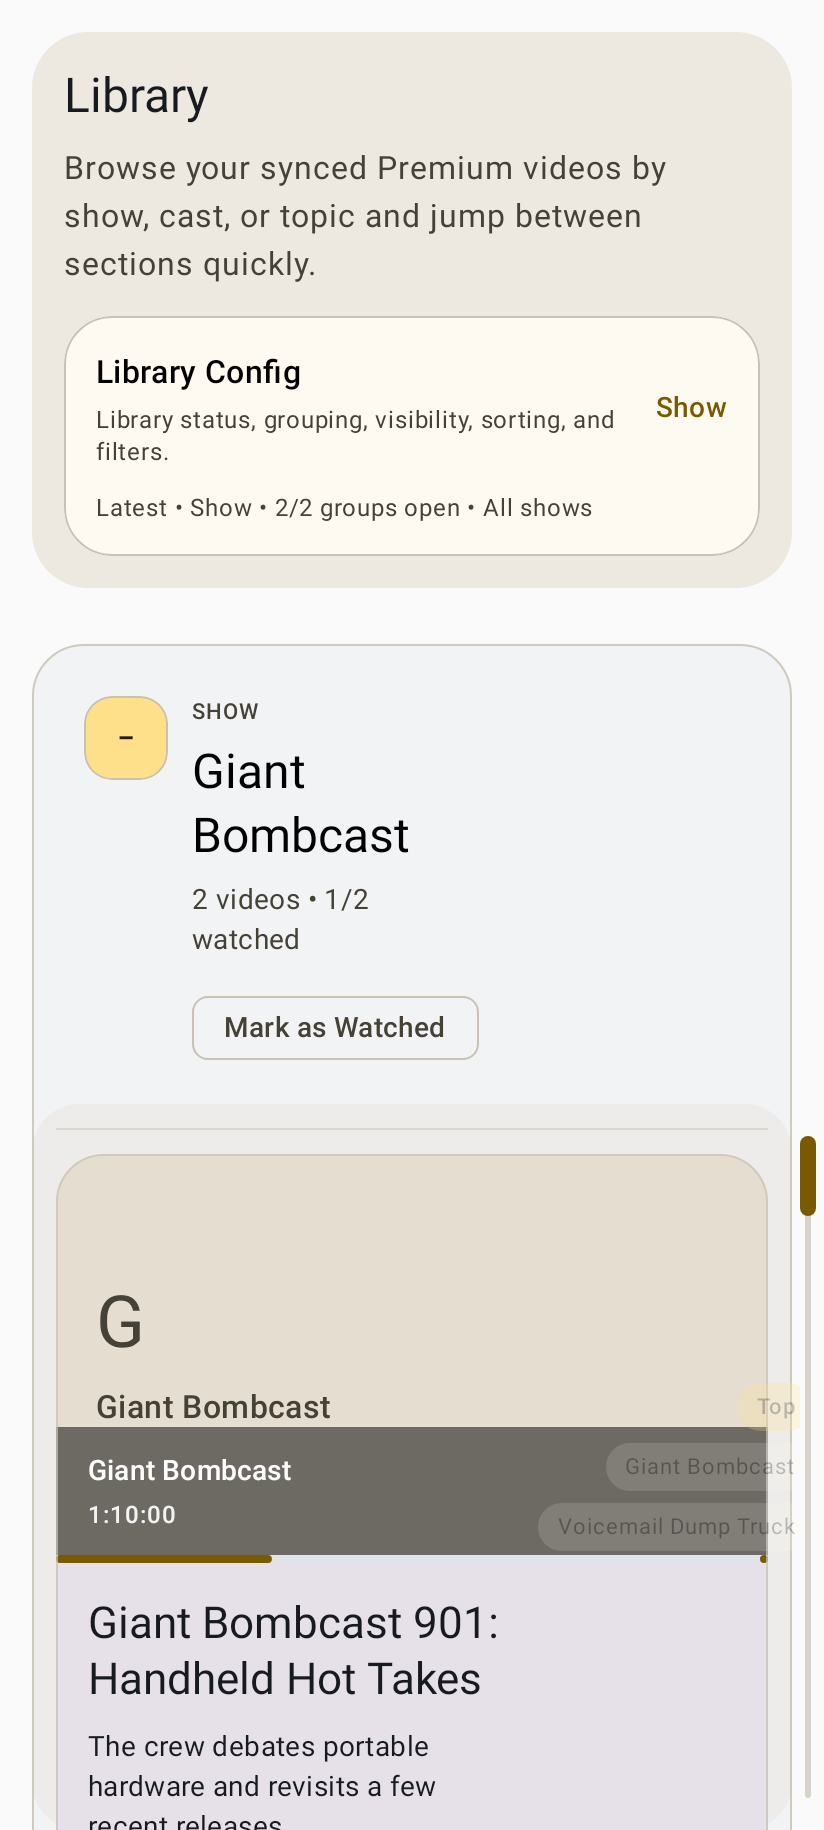
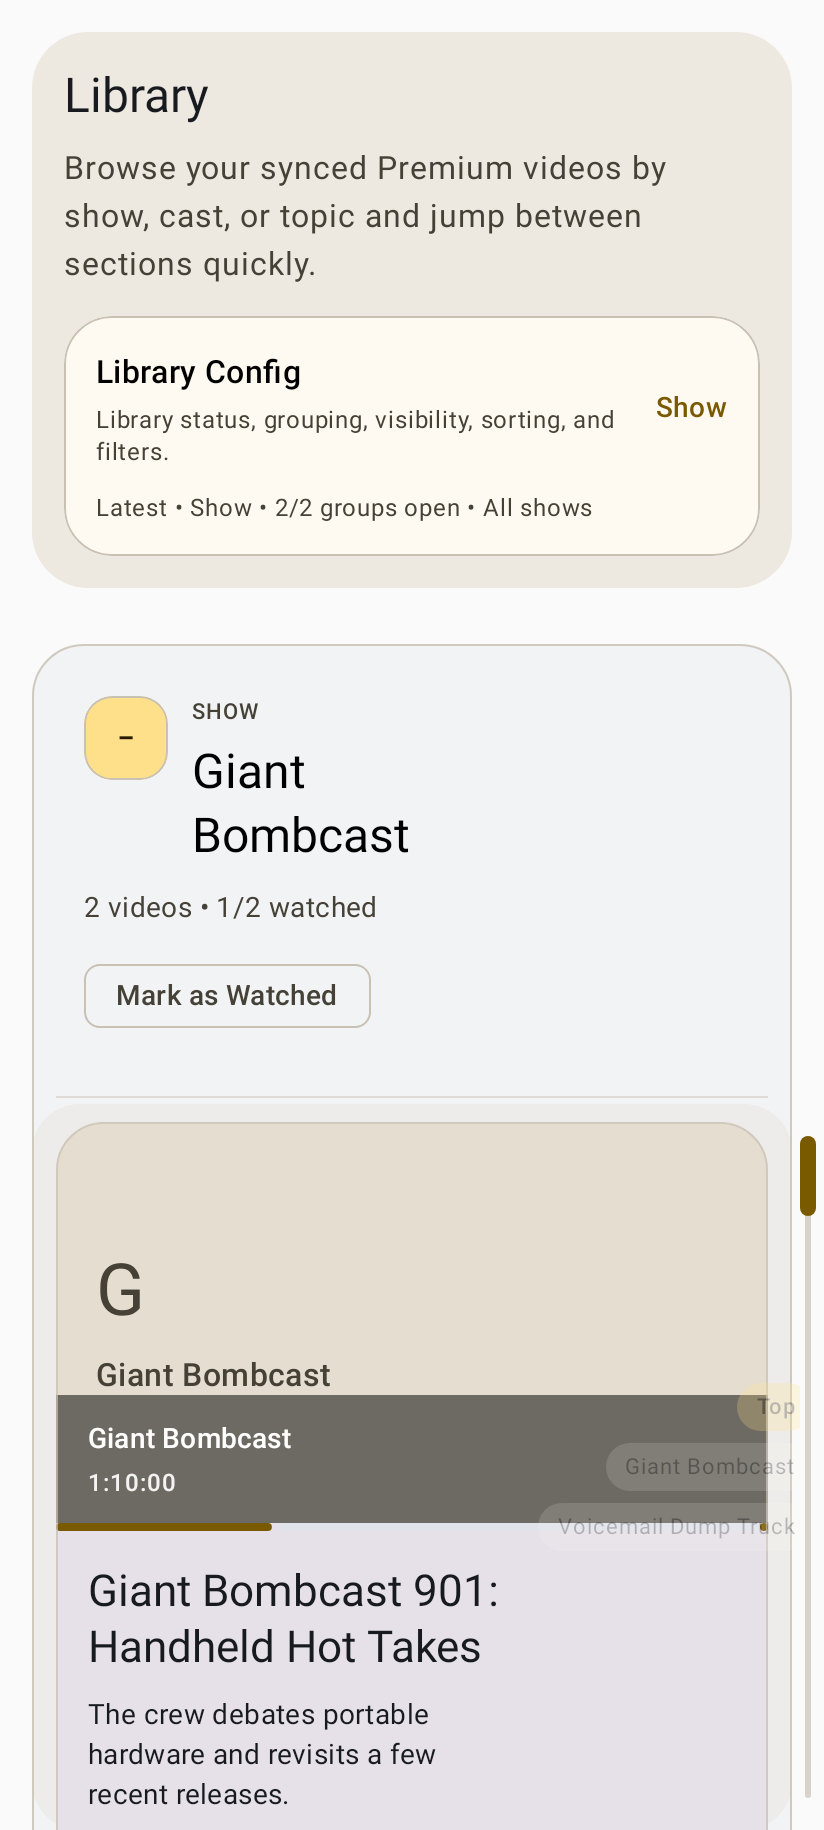
Reclaim grouped header width beneath affordance

Changed region(s): [[0.0607, 0.6852, 0.9405, 1.0], [0.0607, 0.4672, 0.9405, 0.6541]]

diff --git a/feature/library/src/main/java/com/looktube/feature/library/LibraryRoute.kt b/feature/library/src/main/java/com/looktube/feature/library/LibraryRoute.kt
@@ -985,7 +985,6 @@ private val TRACK_ONLY_CONTENT_CLEARANCE = 20.dp
 private val JUMP_RAIL_TRACK_WIDTH = 8.dp
 private val GROUPED_HEADER_MAX_END_PADDING = 148.dp
 private val GROUPED_VIDEO_MAX_END_PADDING = 112.dp
-private val GROUP_HEADER_TOGGLE_INDENT = 54.dp
 
 internal enum class JumpRailInteraction {
     Scroll,
@@ -1251,25 +1250,32 @@ private fun SeriesSectionHeader(
                     text = section.title,
                     style = MaterialTheme.typography.headlineSmall,
                 )
-                Text(
-                    text = supportingText,
-                    style = MaterialTheme.typography.bodyMedium,
-                    color = MaterialTheme.colorScheme.onSurfaceVariant,
-                )
             }
         }
-        FilterChip(
-            modifier = Modifier.padding(start = GROUP_HEADER_TOGGLE_INDENT),
-            selected = sectionIsFullyWatched,
-            onClick = {
-                if (sectionIsFullyWatched) {
-                    onMarkSectionUnwatched()
-                } else {
-                    onMarkSectionWatched()
-                }
-            },
-            label = { Text(watchToggleActionLabel(sectionIsFullyWatched)) },
+        Text(
+            text = supportingText,
+            modifier = Modifier.padding(end = textEndPadding),
+            style = MaterialTheme.typography.bodyMedium,
+            color = MaterialTheme.colorScheme.onSurfaceVariant,
         )
+        Row(
+            modifier = Modifier
+                .fillMaxWidth()
+                .padding(end = textEndPadding),
+        )
+        {
+            FilterChip(
+                selected = sectionIsFullyWatched,
+                onClick = {
+                    if (sectionIsFullyWatched) {
+                        onMarkSectionUnwatched()
+                    } else {
+                        onMarkSectionWatched()
+                    }
+                },
+                label = { Text(watchToggleActionLabel(sectionIsFullyWatched)) },
+            )
+        }
     }
 }
 

diff --git a/docs/spec/reproducible-project-spec.md b/docs/spec/reproducible-project-spec.md
@@ -76,7 +76,7 @@ An implementation that materially changes these choices can still be valid, but 
 - supports show filtering with the filter tray collapsed by default
 - supports collapsing and expanding individual grouped sections, plus overview-level expand-all and collapse-all actions when grouping is active
 - applies the chosen sort mode consistently to flat lists, grouped section ordering, and episode ordering within each visible group
-- renders grouped section headers as containing cards with progress-aware video cards beneath them, keeps the expand/collapse control in the top left beside the group title, places the single group watched-state toggle beneath the group info immediately above the child video list, and provides a right-side jump rail that anchors to the episode-list panel for quick section navigation based on the currently visible section anchors without overlapping card text or interactive controls
+- renders grouped section headers as containing cards with progress-aware video cards beneath them, keeps the expand/collapse control in the top left beside the group title, lets the title block plus the group info and single group watched-state toggle reclaim the full header width beneath that affordance, places the toggle immediately above the child video list, and provides a right-side jump rail that anchors to the episode-list panel for quick section navigation based on the currently visible section anchors without overlapping card text or interactive controls
 - shows watched-versus-total completion on grouped show headers when browsing by show
 - uses explicit `Mark as Watched` and `Mark as Unwatched` labels for manual watched-state actions
 - exposes key per-video metadata on cards and an explicit full-info affordance for inspecting each video's stored details
@@ -110,7 +110,7 @@ An implementation that materially changes these choices can still be valid, but 
 - Library sorting semantics stay consistent across grouped and ungrouped browsing: latest and oldest are chronological, while show ordering is alphabetical by group/show with newest episodes first within a show.
 - The library overview panel remains visually separate from the scrolling episode list, can scroll off screen before the episode list takes over the viewport, and the jump rail does not overlap that overview panel.
 - Grouped section collapse state is local UI state that survives scrolling and jump-rail use during the current session without needing cross-launch persistence.
-- Grouped sections read as containing cards, with compact header controls that use icon-only expand/collapse affordances, a single current-state watched toggle instead of parallel watched and unwatched buttons, and expanded episode cards that remain visually nested under the header they belong to.
+- Grouped sections read as containing cards, with compact header controls that use icon-only expand/collapse affordances, a single current-state watched toggle instead of parallel watched and unwatched buttons, header metadata and the toggle reclaiming the width beneath the affordance instead of reserving a dead left gutter, and expanded episode cards that remain visually nested under the header they belong to.
 - The jump rail becomes visible quickly when scrolling starts, fades back out roughly 0.2 seconds after passive scrolling stops, and only lingers longer after an explicit jump-rail selection.
 
 ### Background refresh and notifications

diff --git a/docs/spec/product-spec.md b/docs/spec/product-spec.md
@@ -56,7 +56,7 @@ Harden the path from copied feed sync to daily repeat use.
 - library cards expose key per-video metadata, watched-state actions, and an explicit full-info affordance so stored video details remain inspectable even when descriptions are short
 - watched-state actions use explicit `Mark as Watched` and `Mark as Unwatched` phrasing throughout the app
 - Look Points remain based only on watched videos, with the global header badge using the app's gold/yellow accent outline treatment while show completion remains a visual progress signal rather than a score bonus
-- grouped section headers avoid redundant tap-instruction copy, keep the expand/collapse affordance in the top left beside the group title, move the single group watched-state toggle below the group info directly above the child video list, surface watched-versus-total completion status, and give title plus group info most of the layout space so fully watched shows are easy to spot and update without duplicated opposing buttons
+- grouped section headers avoid redundant tap-instruction copy, keep the expand/collapse affordance in the top left beside the group title, let the title block plus the group info and single watched-state toggle reclaim the full header width beneath that affordance instead of leaving a dead left gutter, surface watched-versus-total completion status, and keep the toggle directly above the child video list so fully watched shows are easy to spot and update without duplicated opposing buttons
 - expanded grouped sections render as containing cards so the header and its videos read as one collapsible element
 - any manual watched-state control in the app exposes only the next valid toggle action for its current state rather than parallel watched and unwatched buttons for the same item or group
 - selecting a video with saved playback progress resumes from that stored point reliably, including after app reloads where the bookmark state and player controller restore asynchronously

diff --git a/docs/spec/agent-spec-package/references/architecture.md b/docs/spec/agent-spec-package/references/architecture.md
@@ -28,7 +28,7 @@ Its central promise is deliberately narrow:
 ### Library
 - combines status, grouping, sorting, filtering, jump navigation, and top-level progress context in one browse surface
 - wraps status plus browse controls inside a default-collapsed Library Config element that sits above the scrolling episode list
-- grouped headers can collapse or expand independently with compact icon-based expand/collapse controls, expose one whole-group watched-state toggle at a time, keep overview controls for expanding or collapsing all groups, render as containing cards, and visually nest their episode cards beneath the owning header
+- grouped headers can collapse or expand independently with compact icon-based expand/collapse controls, expose one whole-group watched-state toggle at a time, let their metadata and toggle reclaim the width beneath the affordance instead of leaving a dead left gutter, keep overview controls for expanding or collapsing all groups, render as containing cards, and visually nest their episode cards beneath the owning header
 - shows watched-versus-total progress for shows while Look Points scoring remains available from the global shell badge and still reflects watched videos only
 - uses explicit `Mark as Watched` and `Mark as Unwatched` wording for manual watch-state actions
 - should remain usable and informative even before a successful live sync
